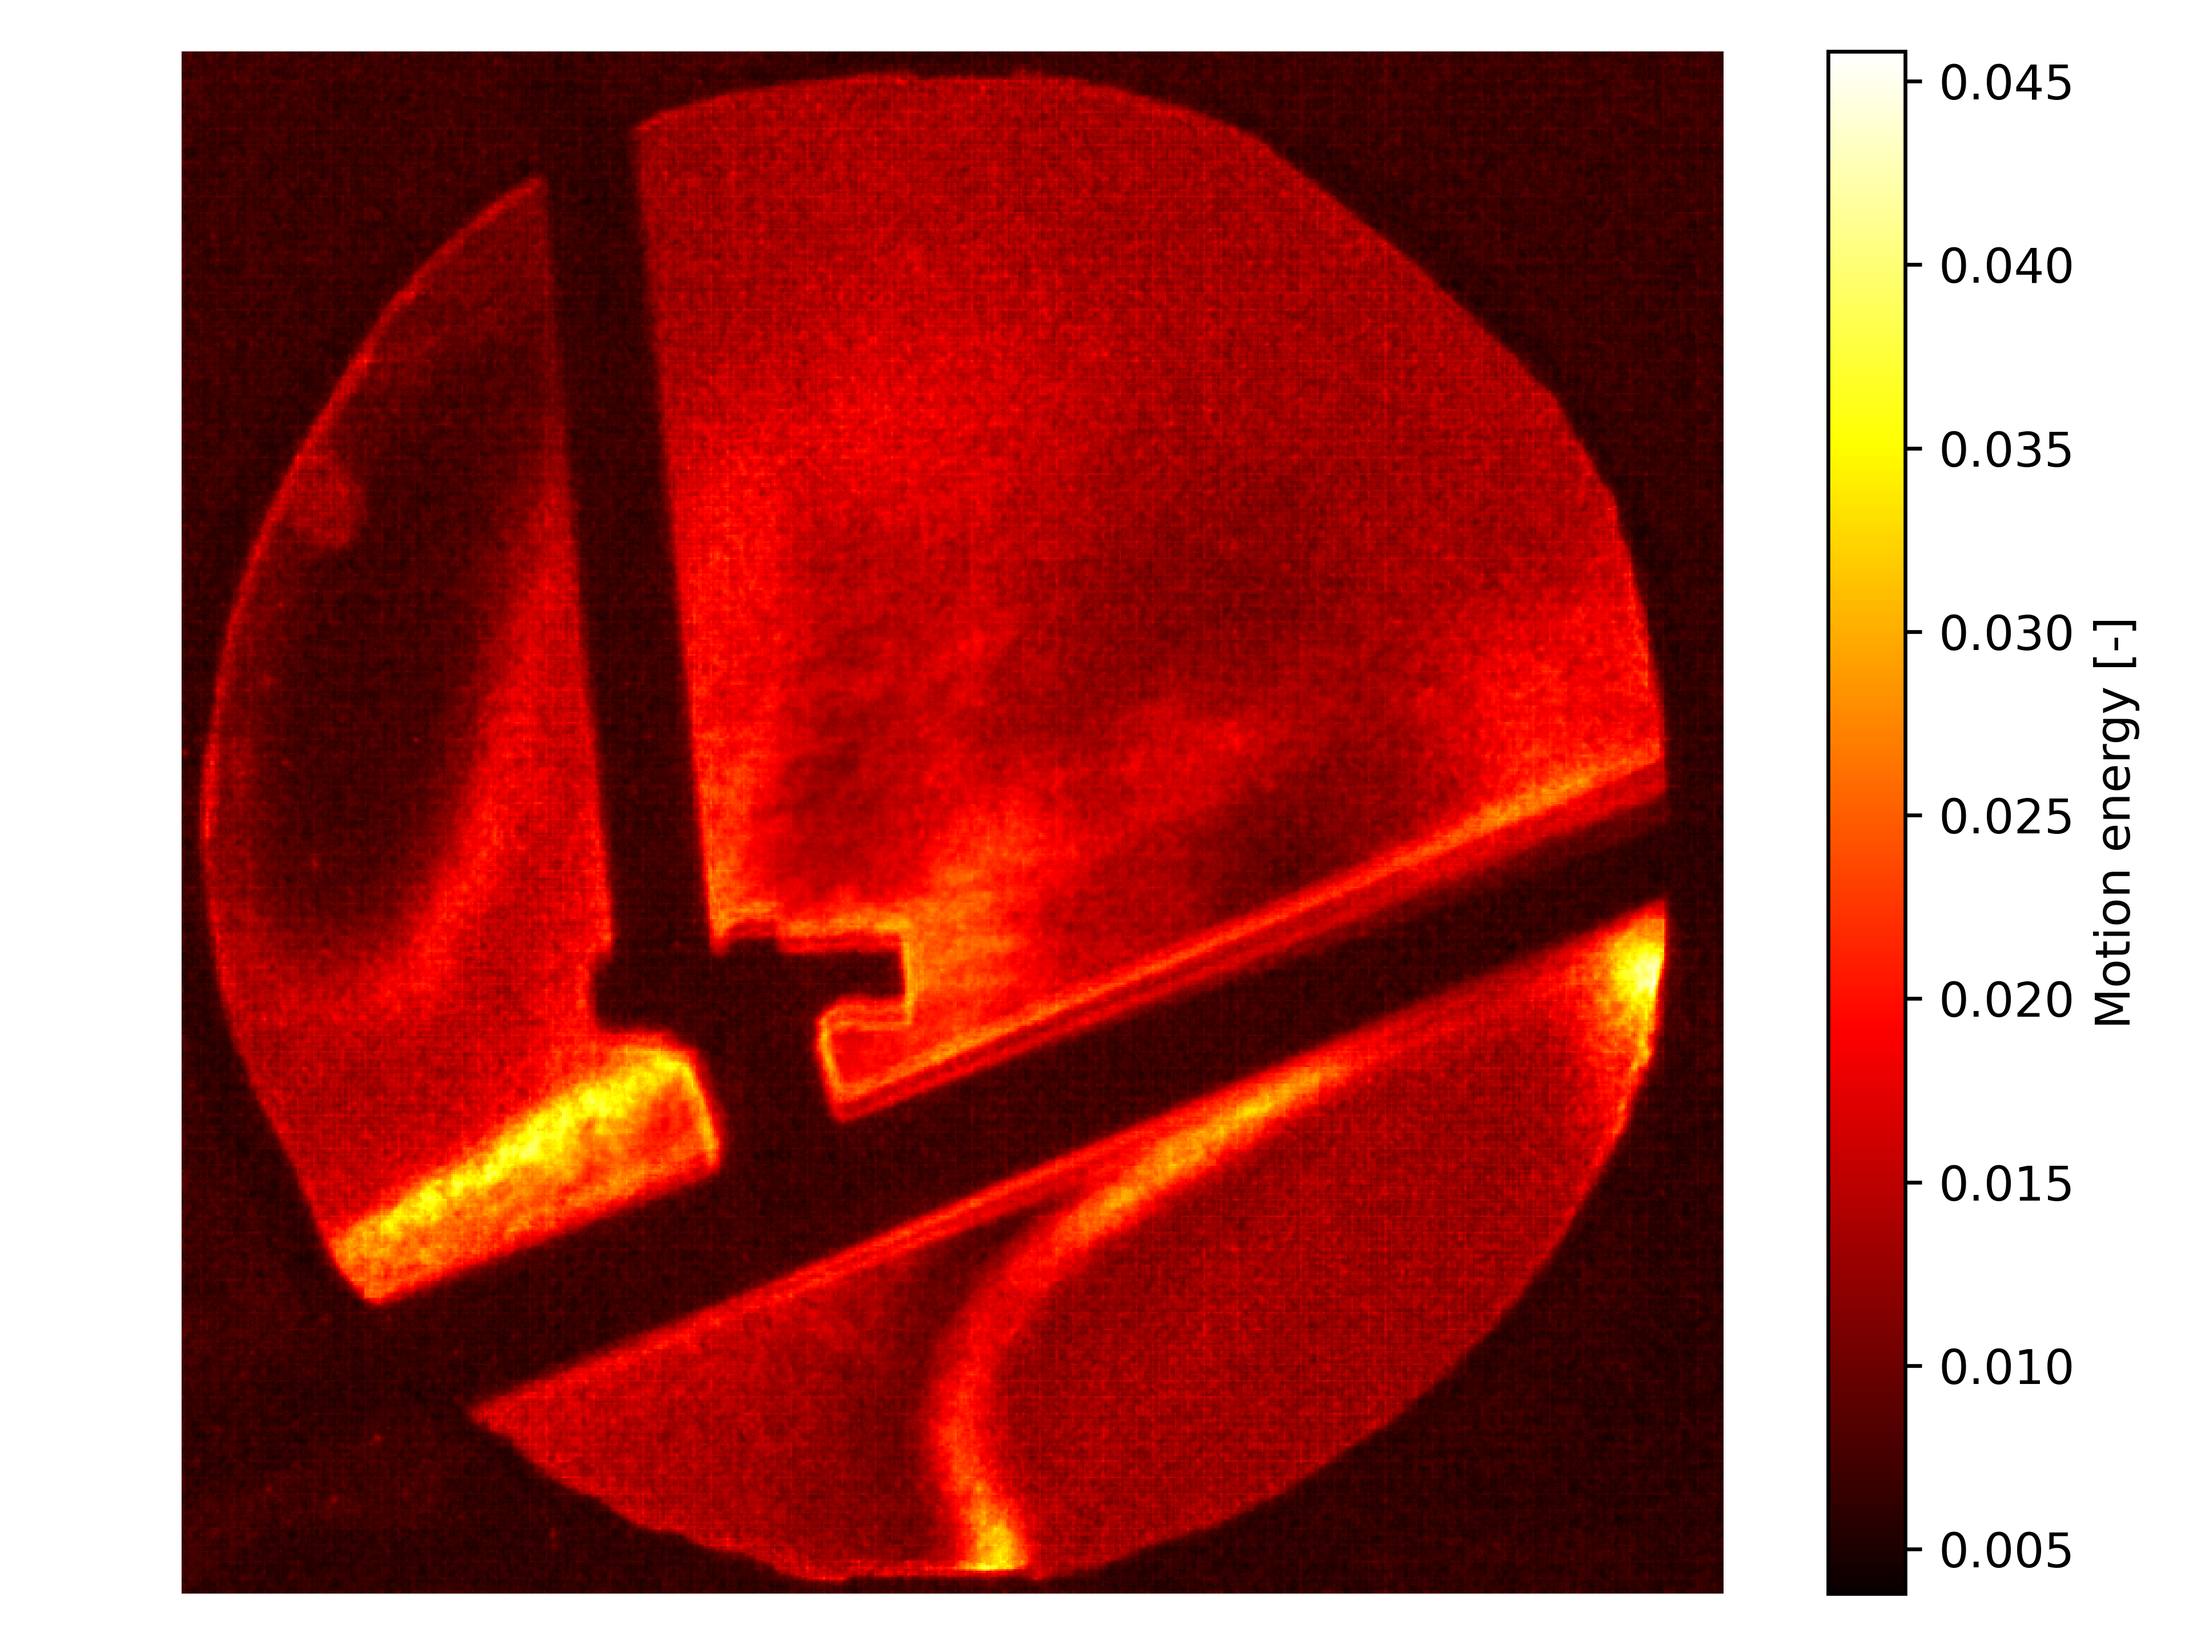
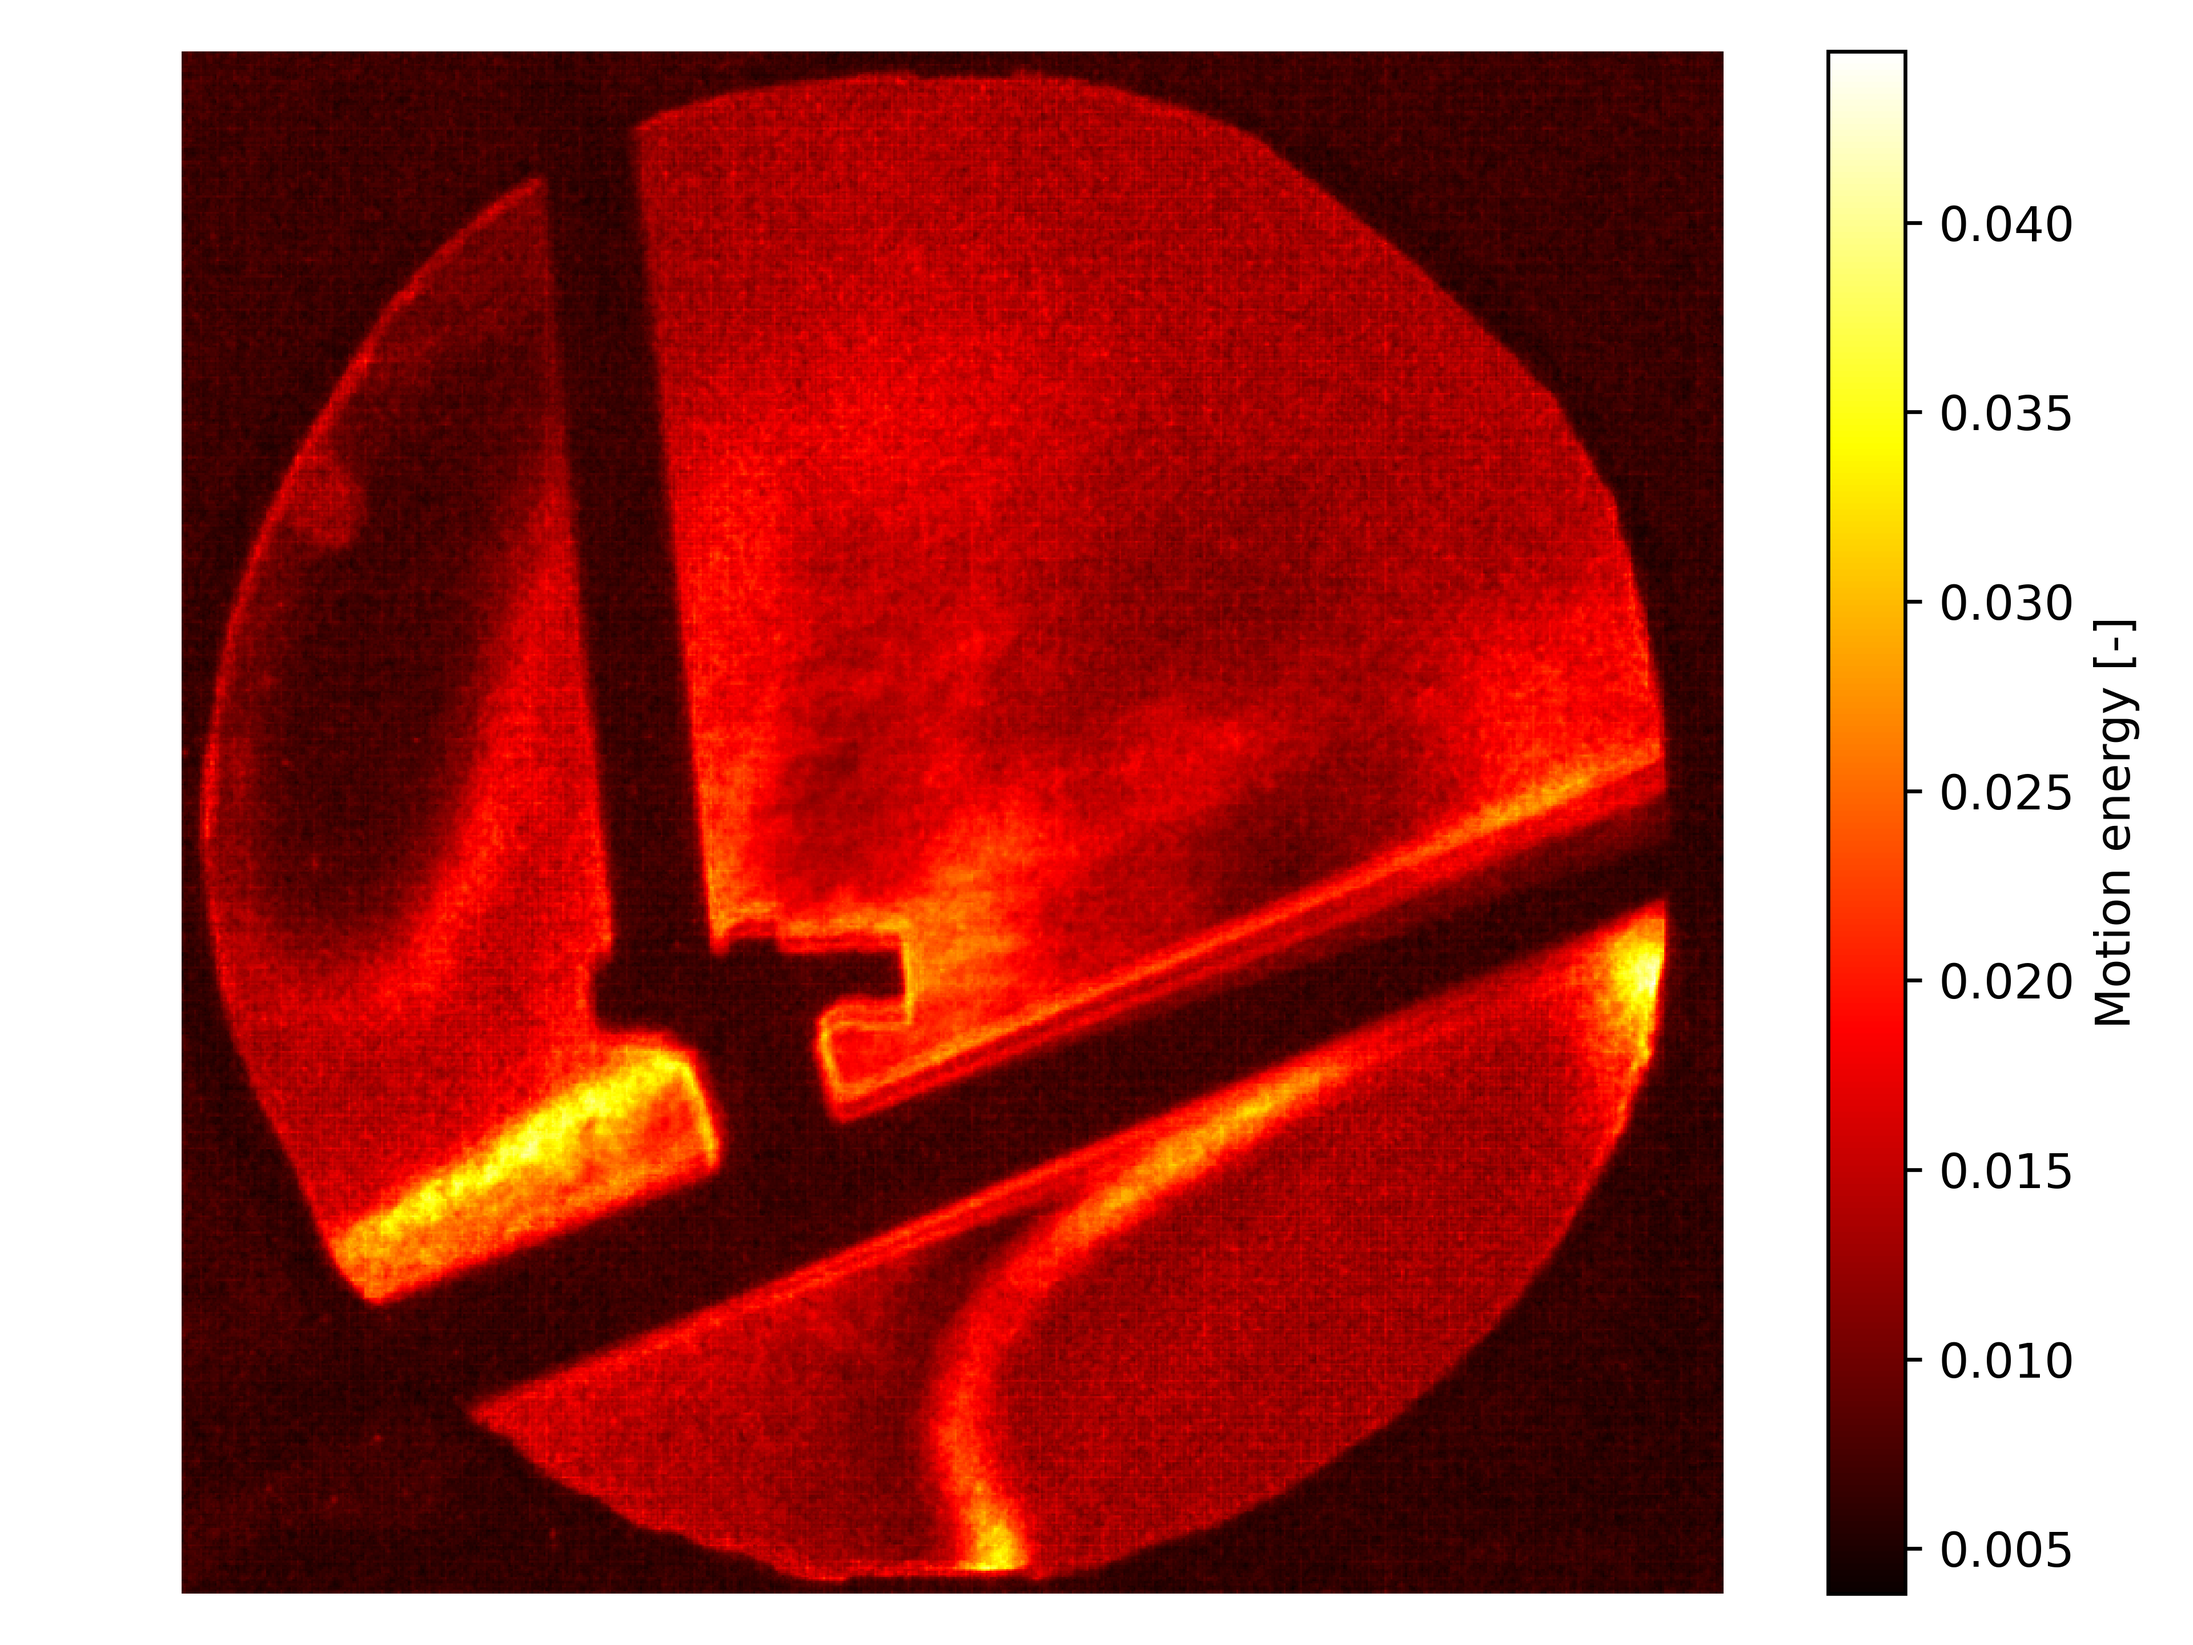
All figures, autoextract_videos and empty frames fixed

diff --git a/project_1/main.py b/project_1/main.py
@@ -1,29 +1,48 @@
 import matplotlib.pyplot as plt
+import os
 
 from video import Video
 
 
 def plot(array, save_filename=None):
-    plot = plt.colorbar(plt.imshow(array, cmap="hot"))
+    plt.imshow(array, cmap="hot")
     plt.axis("off")
     
     plt.tight_layout()
-    plot.ax.set_ylabel("Motion energy [-]")
+    plt.colorbar().ax.set_ylabel("Motion energy [-]")
     if save_filename:
         plt.savefig(save_filename, dpi=600)
     else:
         plt.show()
+    plt.clf()
 
 
 def extract_videos(video_name):
-    vr = Video(f"project_1/video_data/{video_name}.MP4")
-    vr.crop(slice(375+125, 1125+125), slice(50, 800))
-    # vr.plot()
-    vr.convert_to_luminosity()
+    video = Video(f"project_1/video_data/{video_name}.MP4")
+    video.crop(slice(375, 1125), slice(50, 800))
+    # video.plot()
+    video.convert_to_luminosity()
 
-    # vr = Video(f"project_1/arrays/{video_name}.npy")
-    motion_energy = vr.get_mean_motion_energy()
+    # video = Video(f"project_1/arrays/{video_name}.npy")
+    motion_energy = video.get_mean_motion_energy()
     plot(motion_energy, f"project_1/figures/{video_name}.png")
 
 
-extract_videos("upwards_plane")
+# extract_videos("empty")
+
+
+def autoextract_videos():
+    for video_name in os.listdir("project_1/video_data"):
+        print(video_name, end=" "*(40-len(video_name)))
+        video = Video(f"project_1/video_data/{video_name}")
+        with open(f"project_1/crop_slices/{video_name.split('.')[0]}.txt", "r") as f:
+            lines = f.read().split("\n")[1:]
+            x_slice = slice(int(lines[0].split("(")[1].split(",")[0]), int(lines[0].split(", ")[1].split(",")[0]))
+            y_slice = slice(int(lines[1].split("(")[1].split(",")[0]), int(lines[1].split(", ")[1].split(",")[0]))
+        video.crop(x_slice, y_slice)
+        video.convert_to_luminosity()
+
+        motion_energy = video.get_mean_motion_energy()
+        plot(motion_energy, f"project_1/figures/{video_name.split('.')[0]}.png")
+
+autoextract_videos()

diff --git a/project_1/video.py b/project_1/video.py
@@ -18,7 +18,7 @@ class Video:
 
     def get_numpy_array(self, filename):
         capture = cv2.VideoCapture(filename)
-        frameCount = int(capture.get(cv2.CAP_PROP_FRAME_COUNT)) - 10
+        frameCount = int(capture.get(cv2.CAP_PROP_FRAME_COUNT))
         frameWidth = int(capture.get(cv2.CAP_PROP_FRAME_WIDTH))
         frameHeight = int(capture.get(cv2.CAP_PROP_FRAME_HEIGHT))
         
@@ -29,9 +29,11 @@ class Video:
             booli, frame = capture.read()
             if frame is not None:
                 data[frame_number] = frame
+            else:
+                break
             frame_number += 1
-        
-        return data
+
+        return data[:frame_number,:,:,:]
 
     def save(self):
         np.save(f"{self.save_foldername}/{self.filename.split('/')[-1].split('.')[0]}.npy", self.data)
